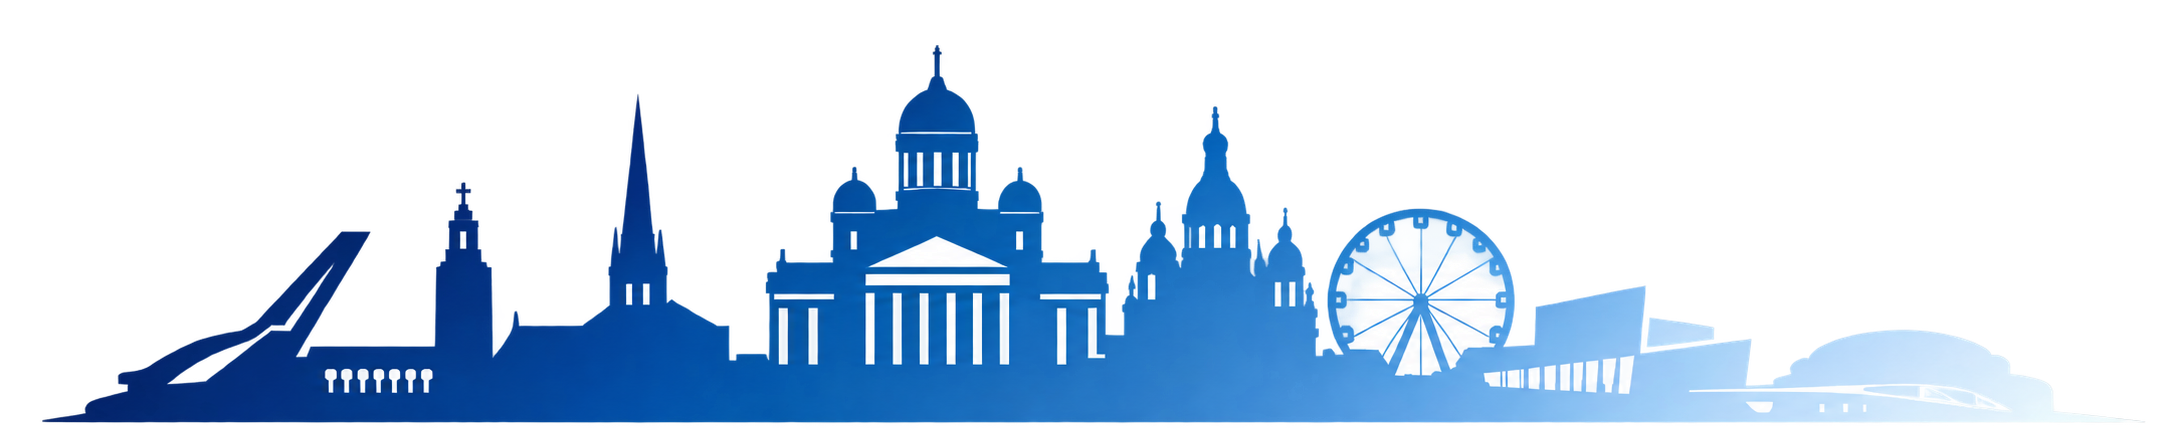
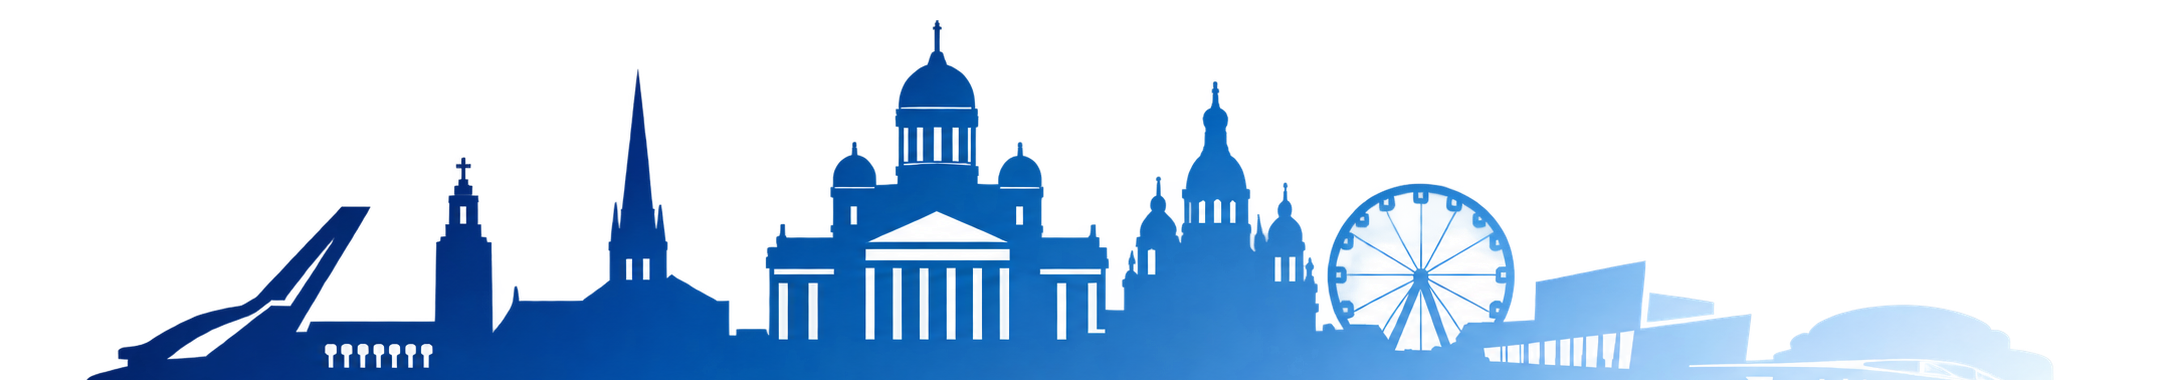
Remove footer skyline spacing

diff --git a/src/pages/Index.tsx b/src/pages/Index.tsx
@@ -67,7 +67,7 @@ const Index = () => {
 
       <footer
         aria-labelledby="footer-title"
-        className="relative isolate z-10 overflow-hidden border-t border-border bg-gradient-to-b from-background via-background to-accent-blue/10 text-foreground"
+        className="relative isolate z-10 overflow-hidden bg-gradient-to-b from-background via-background to-accent-blue/10 text-foreground"
       >
         <div
           aria-hidden="true"
@@ -97,7 +97,7 @@ const Index = () => {
             </a>
           </div>
 
-          <div className="flex flex-col gap-4 border-t border-border py-6 text-left text-sm text-text-muted sm:flex-row sm:items-center sm:justify-between">
+          <div className="flex flex-col gap-4 pt-5 text-left text-sm text-text-muted sm:flex-row sm:items-center sm:justify-between">
             <p>© {new Date().getFullYear()} Harisrujan C.</p>
             <nav aria-label="Footer links" className="flex flex-wrap gap-x-5 gap-y-2">
               <a className="transition-colors hover:text-primary focus-visible:outline-none focus-visible:ring-2 focus-visible:ring-primary" href="https://github.com/HARISRUJAN" target="_blank" rel="noreferrer">
@@ -117,10 +117,10 @@ const Index = () => {
           src={helsinkiFooterEdge}
           alt="Helsinki skyline"
           width={2171}
-          height={430}
+          height={380}
           loading="lazy"
           decoding="async"
-          className="relative z-0 block h-auto w-full max-w-none mix-blend-multiply"
+          className="relative z-0 -mt-2 block h-auto w-full max-w-none mix-blend-multiply"
         />
       </footer>
 
